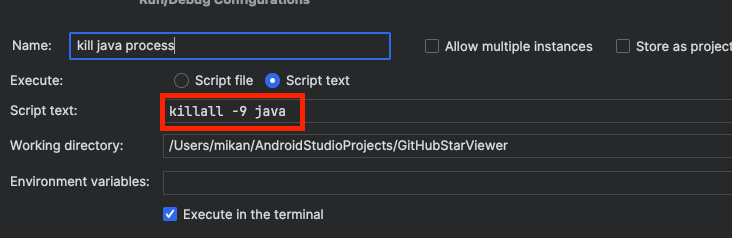
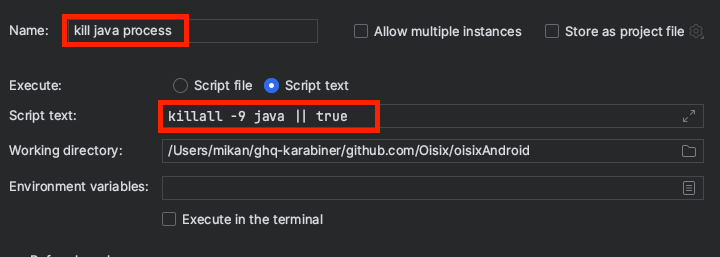
fix: スクリプト修正

diff --git a/articles/9ce0dbb64ccf14.md b/articles/9ce0dbb64ccf14.md
@@ -7,6 +7,14 @@ published: true
 publication_name: "karabiner_inc"
 ---
 
+:::message
+### changelog
+2023/11/19
+スクリプトが間違っていたので修正しました
+`killall -9 java` → `killall -9 java || true`
+※ ジャーナルファイルが存在しなかったときに処理がシェルスクリプトで終っていた
+:::
+
 Android Studioでの開発中に「さてビルドして動作を確認しよう」と思ったときに
 このようなログが出力された経験はないだろうか
 
@@ -41,7 +49,7 @@ killall -9 java
   ![](/images/9ce0dbb64ccf14/edit-configuration.png)
 1. 左上の+ボタンをクリックし、shell scriptを選択する
   ![](/images/9ce0dbb64ccf14/add-shell-script.png)
-1. `Script text` を選択し、先程のスクリプト `killall -9 java` を入力し、Nameは「kill java process」とでも入力しておく
+1. `Script text` を選択し、先程のスクリプト `killall -9 java || true` を入力し、Nameは「kill java process」とでも入力しておく
   ![](/images/9ce0dbb64ccf14/kill-java-process.png)
 1. 左の設定一覧から `Android app/app` を選択し、下のほうにスクロールすると `Before launch` という項目があるので、そこの+をクリックし、 `Run Another Configuration` を選択し、`kill java process` を追加する
   ![](/images/9ce0dbb64ccf14/app-configuration.png)
